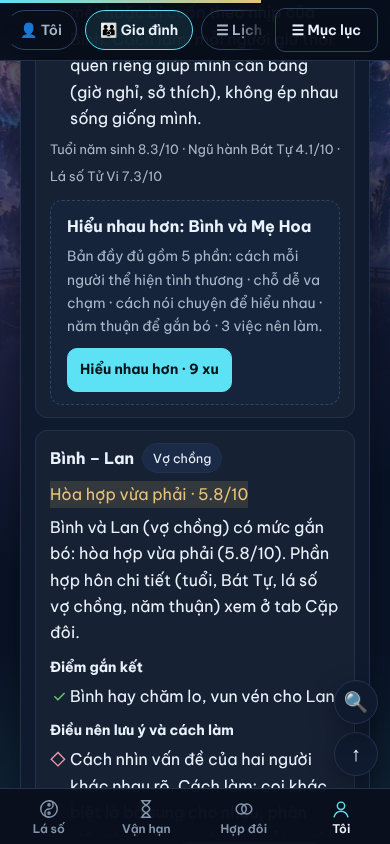
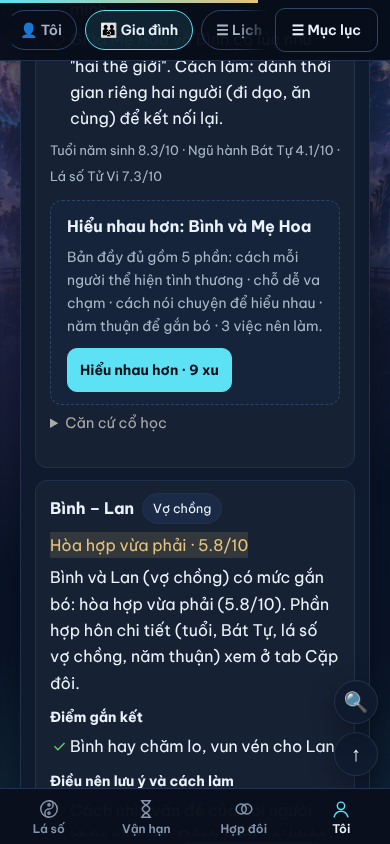
2026.11.17.3: chỉ đăng ký bằng email (bỏ số điện thoại); tab Gia đình giữ đầy đủ phần xem quan hệ cũ miễn phí, chỉ 5 mục Hiểu nhau hơn cần 9 xu
Claude-Session: https://claude.ai/code/session_01SyhBCpU6UBsLWWootv5ymo

diff --git a/tuvi-app/tests/thanh-toan.js b/tuvi-app/tests/thanh-toan.js
@@ -69,9 +69,9 @@ const chu = ctx.dangNhap('chienpham', PASS).token;
 // Phần đầu kiểm tra cơ chế với bảng giá cũ (ghim cố định) và tắt quà đăng ký; phần cuối kiểm tra bảng giá mặc định mới + quà
 const GIA_CU = { co_ban: 49, tron_goi: 149, cap_doi: 29, dai_van: 19, nam: 29, dong_hanh: 79, bien_co: 29, phoi_ngau: 19, pdf: 29, do_gio: 19, tron_dai_van: 99 };
 store.TT_BANG_GIA = JSON.stringify({ phien: ctx.TT_GIA_PHIEN, phan: GIA_CU, goi: [{ tien: 50000, xu: 50 }, { tien: 100000, xu: 110 }, { tien: 200000, xu: 240 }, { tien: 500000, xu: 650 }], thuongDangKy: 0, thuongGTDangKy: 0, kmPhien: ctx.TT_KM_PHIEN });
-ok(nem(() => ctx.dangKy('ab', 'matkhau123', 'A', '0912345678')) !== null, 'Đăng ký: chặn tên quá ngắn');
+ok(nem(() => ctx.dangKy('ab', 'matkhau123', 'A', 'ab@vidu.vn')) !== null, 'Đăng ký: chặn tên quá ngắn');
 ok(nem(() => ctx.dangKy('khachmoi', 'matkhau123', 'Khách', 'abc')) !== null, 'Đăng ký: bắt buộc SĐT/email hợp lệ');
-const dk = ctx.dangKy('khachmoi', 'matkhau123', 'Khách Mới', '0912 345 678');
+const dk = ctx.dangKy('khachmoi', 'matkhau123', 'Khách Mới', 'khachmoi@vidu.vn');
 ok(dk.token && dk.nguoiDung.vaiTro === 'thanhVien', 'Khách tự đăng ký và đăng nhập luôn');
 const T = dk.token;
 let r = ctx.lapLaSo(L, T);
@@ -206,9 +206,9 @@ ok(ctx.xacThucEmail(n1.token, ma1).chuaCo, 'Mã đã dùng không dùng lại đ
 tkSet('nguoimoi1', o => { o.otp = null; });
 ctx.guiMaEmail(n1.token, 'khac@x.vn'); { const v = ctx.xacThucEmail(n1.token, maCuoi()); ok(v.ok && v.qua.xu === 0 && v.qua.lyDo === 'taiKhoan' && ctx.ttSoDu_('nguoimoi1') === 39, 'Tài khoản đã nhận quà: xác thực email khác không nhận thêm'); }
 m = ctx.muaPhan(n1.token, Object.assign({}, L, { day: 11 }), 'thang', new Date().getFullYear() + '-12'); ok(m.ok && m.soDu === 39 - P_.thang.xu, 'Dùng quà mở ngay 1 tháng, không cần nạp');
-const n1b = ctx.dangKy('nguoimoi1b', 'matkhau123', 'Trùng Email', '0911000001', '');
+const n1b = ctx.dangKy('nguoimoi1b', 'matkhau123', 'Trùng Email', 'nguoimoi1b@vidu.vn', '');
 ctx.guiMaEmail(n1b.token, 'MOI1@x.vn '); { const v = ctx.xacThucEmail(n1b.token, maCuoi()); ok(v.ok && v.qua.xu === 0 && v.qua.lyDo === 'email' && ctx.ttSoDu_('nguoimoi1b') === 0, 'Quà mỗi email chỉ một lần (không phân biệt hoa thường) – tài khoản khác vẫn xác thực được'); }
-const n7 = ctx.dangKy('nguoimoi7', 'matkhau123', 'B7', '0911000007', ''), n7b = ctx.dangKy('nguoimoi7b', 'matkhau123', 'B7b', '0911000008', '');
+const n7 = ctx.dangKy('nguoimoi7', 'matkhau123', 'B7', 'nguoimoi7@vidu.vn', ''), n7b = ctx.dangKy('nguoimoi7b', 'matkhau123', 'B7b', 'nguoimoi7b@vidu.vn', '');
 ctx.guiMaEmail(n7.token, 'Ten.Mot+abc@GoogleMail.com'); const q7 = ctx.xacThucEmail(n7.token, maCuoi()).qua.xu;
 ctx.guiMaEmail(n7b.token, 'tenmot@gmail.com'); const q7b = ctx.xacThucEmail(n7b.token, maCuoi()).qua.xu;
 ok(q7 === 39 && q7b === 0, 'Quà: bí danh Gmail (dấu chấm, +đuôi, googlemail) tính là một email');
@@ -220,11 +220,11 @@ ok(ctx.ttLienHeChuan_('ab+x@yahoo.com') === 'ab@yahoo.com' && ctx.ttLienHeChuan_
   tkSet('otphethan', o => { o.otp = null; }); ctx.guiMaEmail(t, 'hh@x.vn');
   ok(ctx.xacThucEmail(t, maCuoi()).qua.xu === 39, 'Gửi lại mã mới sau khi hết hạn → xác thực được, nhận quà'); }
 { // sai 5 lần → mã khóa, kể cả nhập đúng sau đó
-  const t = ctx.dangKy('otpsai', 'matkhau123', 'S', '0911000009', '').token; ctx.guiMaEmail(t, 'sai@x.vn'); const ma = maCuoi(), sai = ma === '999999' ? '888888' : '999999';
+  const t = ctx.dangKy('otpsai', 'matkhau123', 'S', 'otpsai@vidu.vn', '').token; ctx.guiMaEmail(t, 'sai@x.vn'); const ma = maCuoi(), sai = ma === '999999' ? '888888' : '999999';
   let v; for (let i = 0; i < 5; i++) v = ctx.xacThucEmail(t, sai);
   ok(v.khoaMa && v.conLan === 0 && ctx.xacThucEmail(t, ma).khoaMa && ctx.ttSoDu_('otpsai') === 0, 'Sai 5 lần: mã bị khóa, nhập đúng cũng không nhận'); }
 { // tối đa 5 lần gửi mỗi ngày + hết quota MailApp
-  const t = ctx.dangKy('otpgioihan', 'matkhau123', 'G', '0911000010', '').token;
+  const t = ctx.dangKy('otpgioihan', 'matkhau123', 'G', 'otpgioihan@vidu.vn', '').token;
   tkSet('otpgioihan', o => { o.otpNgay = ctx.Utilities.formatDate(new Date(), 'Asia/Ho_Chi_Minh', 'yyyy-MM-dd'); o.otpDem = 5; });
   const n0 = thu.length, v = ctx.guiMaEmail(t, 'gh@x.vn'); ok(v.ok === false && v.hetLuot && thu.length === n0, 'Quá 5 lần gửi mã trong ngày: từ chối, không gửi');
   tkSet('otpgioihan', o => { o.otpDem = 0; });
@@ -233,12 +233,13 @@ ok(ctx.ttLienHeChuan_('ab+x@yahoo.com') === 'ab@yahoo.com' && ctx.ttLienHeChuan_
   quota = 100; tkSet('otpgioihan', o => { o.otp = null; }); guiLoi = true;
   ok(/Chưa gửi được email/.test(nem(() => ctx.guiMaEmail(t, 'gh@x.vn')) || '') && !tkJ('otpgioihan').otp, 'MailApp lỗi: báo lỗi rõ, không giữ mã treo'); guiLoi = false; }
 { // tài khoản cũ đã nhận quà kiểu cũ (sổ cái 'DK') → không nhận thêm 39 xu
-  const t = ctx.dangKy('tkcuqua', 'matkhau123', 'Cũ', '0911000011', '').token;
+  const t = ctx.dangKy('tkcuqua', 'matkhau123', 'Cũ', 'tkcuqua@vidu.vn', '').token;
   ctx.ttKhoa_(() => ctx.ttCong_('tkcuqua', 9, 'Quà chào mừng khi đăng ký', 'DK'));
   ctx.guiMaEmail(t, 'cu@x.vn'); const v = ctx.xacThucEmail(t, maCuoi());
   ok(v.ok && v.qua.xu === 0 && v.qua.lyDo === 'taiKhoan' && ctx.ttSoDu_('tkcuqua') === 9, 'Tài khoản đã nhận quà 9/50 xu kiểu cũ: xác thực email không nhận thêm'); }
-const n6 = ctx.dangKy('nguoimoi6', 'matkhau123', 'B6', '+84 98 765 4321', '');
-ok(n6.qua.xu === 0 && !n6.emailGoiY && ctx.ttSoDu_('nguoimoi6') === 0, 'Đăng ký bằng SĐT: không tặng (SĐT không xác minh được), vẫn mời xác thực email');
+const n6 = ctx.dangKy('nguoimoi6', 'matkhau123', 'B6', 'nguoimoi6@vidu.vn', '');
+ok(n6.qua.xu === 0 && n6.emailGoiY === 'nguoimoi6@vidu.vn' && n6.canXacThuc && ctx.ttSoDu_('nguoimoi6') === 0, 'Đăng ký: chưa tặng ngay, gợi ý đúng email để xác thực');
+ok(/email hợp lệ/.test(nem(() => ctx.dangKy('nguoisdt', 'matkhau123', 'SĐT', '0987654321', ''))), '17/11: chỉ đăng ký bằng email – số điện thoại bị từ chối');
 
 // --- Chủ đề năm (nam_cd) và bức tranh chung (nam) ---
 const vyN = new Date().getFullYear(), LN = Object.assign({}, L, { day: 13, viewYear: vyN });
@@ -303,7 +304,7 @@ ok(/Không có gói/.test(nem(() => ctx.muaPhan(t6, null, 'hoi_vien')) || '') &&
     { ten: 'Mẹ', quanHe: 'Mẹ', input: { name: 'Mẹ', gender: 'nu', calendar: 'duong', day: 2, month: 3, year: 1965, hour: 6, minute: 0 } },
     { ten: 'Vợ', quanHe: 'Vợ', input: { name: 'Vợ', gender: 'nu', calendar: 'duong', day: 3, month: 4, year: 1994, hour: 7, minute: 0 } }], t6).ds;
   let Q = ctx.giaDinhQuanHe([ds[0].id, ds[1].id], t6), c = Q.cap[0];
-  ok(!c.moQH && c.giaQH === 9 && c.luan.khoa && c.luan.muc.length === 5 && c.luan.muc.every(x => !x.ds) && c.tomTat.length === 1 && c.canCu.length === 0 && c.diem >= 0, 'Quan hệ chưa mua: chỉ điểm, xếp loại, 1 dòng tóm tắt + tên 5 mục');
+  ok(!c.moQH && c.giaQH === 9 && c.luan.khoa && c.luan.muc.length === 5 && c.luan.muc.every(x => !x.ds) && c.tomTat.length >= 1 && c.diem >= 0, 'Quan hệ chưa mua: phần xem cũ giữ đầy đủ (miễn phí), 5 mục "Hiểu nhau hơn" chỉ còn tên');
   const d0 = ctx.ttSoDu_('nguoimoi6'); m = ctx.muaPhan(t6, { ids: [ds[0].id, ds[1].id] }, 'quan_he');
   ok(m.ok && m.gia === 9 && ctx.ttSoDu_('nguoimoi6') === d0 - 9, 'Mua quan hệ Tôi – Mẹ: 9 xu');
   ok(ctx.muaPhan(t6, { a: ds[1].input, b: ds[0].input }, 'quan_he').daCo, 'Khóa cặp không phụ thuộc thứ tự (nhập a/b đảo vẫn là đã có)');

diff --git a/tuvi-app/tests/gia-dinh.js b/tuvi-app/tests/gia-dinh.js
@@ -9,7 +9,7 @@ let ok = 0, sai = 0;
 function kt(dk, msg) { if (dk) ok++; else { sai++; console.log('✗', msg); } }
 const tokChu = 'gia-dinh-kiem-thu-token-chu-01';
 ctx.CacheService.getScriptCache().put('SS_' + tokChu, JSON.stringify({ ten: 'chienpham' }));
-const dk = ctx.dangKy('giadinhthu', 'matkhau123', 'Thử', '0912000999', ''), tokTV = dk.token;
+const dk = ctx.dangKy('giadinhthu', 'matkhau123', 'Thử', 'giadinhthu@vidu.vn', ''), tokTV = dk.token;
 let bi = false; try { ctx.giaDinhDs('khong-hop-le'); } catch (e) { bi = true; }
 kt(bi, 'chưa đăng nhập bị chặn');
 // Chủ sở hữu: danh sách mặc định
@@ -74,7 +74,7 @@ for (let i = 0; i < 25; i++) {   // ngẫu nhiên: không lỗi, điểm trong 0
   const qh = ['Bản thân', 'Vợ', 'Con trai', 'Con gái', 'Cha', 'Mẹ', 'Anh', 'Em gái', 'Ông', 'Bà', 'Họ hàng'];
   const dsN = [0, 1, 2, 3].map(k => ({ ten: 'N' + i + k, quanHe: qh[(i * 5 + k * 7) % qh.length], input: { gender: (i + k) % 2 ? 'nu' : 'nam', calendar: 'duong', day: 1 + (i * 7 + k * 3) % 28, month: 1 + (i + k * 5) % 12, year: 1940 + (i * 13 + k * 17) % 80, hour: (i * 5 + k) % 24, minute: 0 } }));
   const sach = ctx.giaDinhLuu(dsN, tokTV).ds, R = ctx.giaDinhQuanHe(sach.map(x => x.id), tokTV);
-  kt(R.cap.length === 6 && R.cap.every(c => c.diem >= 0 && c.diem <= 10 && c.tomTat.length && (c.capDoi || (!c.moQH && c.luan.khoa && c.tomTat.length === 1))) && R.nhom, '#' + i + ' 4 người ngẫu nhiên luận được (thành viên: bản xem thử quan hệ)');
+  kt(R.cap.length === 6 && R.cap.every(c => c.diem >= 0 && c.diem <= 10 && c.tomTat.length && (c.capDoi || (!c.moQH && c.luan.khoa && c.luan.muc.every(m => !m.ds)))) && R.nhom, '#' + i + ' 4 người ngẫu nhiên luận được (thành viên: bản xem thử quan hệ)');
 }
 console.log('Gia đình: đạt ' + ok + '/' + (ok + sai));
 process.exit(sai ? 1 : 0);

diff --git a/tuvi-app/Index.html b/tuvi-app/Index.html
@@ -3,7 +3,7 @@
 <head>
   <base target="_top">
   <meta charset="utf-8">
-  <meta name="tcc-ban" content="2026.11.17.2">
+  <meta name="tcc-ban" content="2026.11.17.3">
   <meta name="viewport" content="width=device-width, initial-scale=1">
   <title>Thiên Cơ Các · Lá Số Tử Vi & Bát Tự</title>
   <link rel="preconnect" href="https://fonts.googleapis.com">
@@ -400,7 +400,7 @@
           <div class="field"><label for="rgUser">Tên đăng nhập</label><input type="text" id="rgUser" autocomplete="username" autocapitalize="none" spellcheck="false" placeholder="vd: an.nguyen" required></div>
           <div class="field"><label for="rgName">Tên hiển thị</label><input type="text" id="rgName" maxlength="60" placeholder="vd: Nguyễn An"></div>
         </div>
-        <div class="field"><label for="rgContact">Số điện thoại hoặc email (để khôi phục tài khoản)</label><input type="text" id="rgContact" autocomplete="tel" required></div>
+        <div class="field"><label for="rgContact">Email (nhận mã xác thực – quà 39 xu)</label><input type="email" id="rgContact" autocomplete="email" inputmode="email" placeholder="ten@gmail.com" required></div>
         <div class="row c2">
           <div class="field"><label for="rgPass">Mật khẩu (≥ 8 ký tự, có chữ và số)</label><input type="password" id="rgPass" autocomplete="new-password" required></div>
           <div class="field"><label for="rgPass2">Nhập lại mật khẩu</label><input type="password" id="rgPass2" autocomplete="new-password" required></div>

diff --git a/tuvi-app/tests/tien-ich.js b/tuvi-app/tests/tien-ich.js
@@ -18,7 +18,7 @@ const inp = { name: 'Nguyễn Văn An', gender: 'nam', calendar: 'duong', day: 1
 let r = ctx.tienIch(inp, 'xem_tuoi', { muon: 1965 }, ''); kt(r.mo && r.bang.length === 10 && r.muon, 'xem tuổi miễn phí (23/10): đủ 10 năm + tuổi mượn, không cần đăng nhập');
 r = ctx.tienIch(inp, 'phong_thuy', {}, ''); kt(r.mo && r.huong && r.cungPhi === 'Khảm', 'phong thủy miễn phí: đủ 8 hướng');
 r = ctx.tienIch(inp, 'chon_ngay', { viec: 'cuoi', thang: '2026-11' }, ''); kt(r.mo && r.ngay.length === 30, 'chọn ngày miễn phí: đủ 30 ngày');
-const dk = ctx.dangKy('khachti', 'matkhau123', 'Khách TI', '0912000111', ''); const tok = dk.token;
+const dk = ctx.dangKy('khachti', 'matkhau123', 'Khách TI', 'khachti@vidu.vn', ''); const tok = dk.token;
 const G = k => ctx.TT_PHAN_MAC_DINH[k].xu, qua0 = ctx.ttSoDu_('khachti');
 ctx.ttKhoa_(() => ctx.ttCong_('khachti', 300, 'test', ''));
 kt(['xem_tuoi', 'phong_thuy', 'chon_ngay', 'hop_tac', 'dat_ten', 'gieo_que'].every(k => ctx.ttBangGia_().phan[k].xu === 0 && ctx.ttBangGia_().phan[k].mienPhi), 'bảng giá: 6 tiện ích = 0 xu');

diff --git a/tuvi-app/tests/bao-mat.js b/tuvi-app/tests/bao-mat.js
@@ -90,7 +90,7 @@ kt(cfg.webapp && cfg.webapp.executeAs === 'USER_DEPLOYING', 'appsscript.json: we
   const inp = { name: 'An', gender: 'nam', calendar: 'duong', day: 5, month: 6, year: 1990, hour: 8, minute: 0, place: '21.03|105.85|Hà Nội', tz: '7' };
   let loi = ''; try { ctx.getDoanNghiemChung(inp, ''); } catch (e) { loi = e.message; }
   kt(/tài khoản|đăng nhập/.test(loi), 'nghiệm chứng: khách chưa đăng nhập bị chặn');
-  const t = ctx.dangKy('kiemnc', 'matkhau123', 'NC', '0911222333', '').token;
+  const t = ctx.dangKy('kiemnc', 'matkhau123', 'NC', 'kiemnc@vidu.vn', '').token;
   const d = ctx.getDoanNghiemChung(inp, t); kt(Array.isArray(d) && d.length >= 6, 'nghiệm chứng: tài khoản nhận đủ các nhóm (' + d.length + ')');
   ctx.CacheService.getScriptCache().put('NCG_kiemnc', '20', 600);
   loi = ''; try { ctx.getDoanNghiemChung(inp, t); } catch (e) { loi = e.message; }

diff --git a/tuvi-app/tests/giai-doan.js b/tuvi-app/tests/giai-doan.js
@@ -1,7 +1,7 @@
 /** Kiểm thử bán theo giai đoạn: đại vận / vận năm / tháng / Đồng hành / Trọn đời / gói gia đình và phần cắt ở máy chủ. Chạy: node tests/giai-doan.js */
 const { ctx } = require('../tools/gia-lap.js');
 let ok = 0, sai = 0; function kt(dk, ten) { if (dk) ok++; else { sai++; console.log('  ✘', ten); } }
-const dk = ctx.dangKy('khachgd', 'matkhau123', 'Khách GĐ', '0912345678', '');
+const dk = ctx.dangKy('khachgd', 'matkhau123', 'Khách GĐ', 'khachgd@vidu.vn', '');
 const tok = dk.token; kt(tok, 'đăng ký có token');
 const G = k => ctx.TT_PHAN_MAC_DINH[k].xu, qua0 = ctx.ttSoDu_('khachgd');
 ctx.ttKhoa_(() => ctx.ttCong_('khachgd', 1000, 'test', ''));

diff --git a/tuvi-app/tests/van-ngay.js b/tuvi-app/tests/van-ngay.js
@@ -39,7 +39,7 @@ let ngayXung = 0, ngay = 0;
 });
 kt(ngayXung > 10, 'có gặp ngày xung tuổi trong mẫu (' + ngayXung + '/' + ngay + ')');
 // Quyền: tài khoản thường không đăng ký được
-const dk = ctx.dangKy('khachvn', 'matkhau123', 'Khách VN', '0912000222', '');
+const dk = ctx.dangKy('khachvn', 'matkhau123', 'Khách VN', 'khachvn@vidu.vn', '');
 // 23/10: tài khoản thường mua theo 30 ngày (giá 'van_ngay'), hết xu thì báo thiếu
 const giaVN = ctx.ttBangGia_().phan.van_ngay.xu;
 kt(giaVN === 19 && dk.qua.xu === 0 && ctx.ttSoDu_('khachvn') === 0, '16/11: lời nhắn mỗi sáng 19 xu / 30 ngày; đăng ký chưa có quà (quà sau khi xác thực email)');

diff --git a/tuvi-app/Script.html b/tuvi-app/Script.html
@@ -27,7 +27,7 @@
     });
   }
   /** Mã phiên bản giao diện – phải trùng với Index.html (meta tcc-ban) và Styles.html (--tcc-ban) */
-  var BAN_GIAO_DIEN = '2026.11.17.2';
+  var BAN_GIAO_DIEN = '2026.11.17.3';
   /* 25/10: ảnh ngũ hành + 12 con giáp + bìa PDF mới của chủ dự án (tuvi-app/anh/*.webp) qua jsDelivr, ghim theo mã lần lưu */
   var TCC_ANH_CDN = 'https://cdn.jsdelivr.net/gh/phamdoanchiengroup-cloud/githubforclaude160695@19203fbd20433f395336269a411f8aebcf990086/tuvi-app/anh/';
   var ANH_HANH = { 'Mộc': 'NguHanhMoc', 'Hỏa': 'NguHanhHoa', 'Thổ': 'NguHanhTho', 'Kim': 'NguHanhKim', 'Thủy': 'NguHanhThuy' };

diff --git a/tuvi-app/Styles.html b/tuvi-app/Styles.html
@@ -1,6 +1,6 @@
 <style>
 /* Mã phiên bản giao diện – phải trùng với Index.html (meta tcc-ban) và Script.html (BAN_GIAO_DIEN) */
-:root { --tcc-ban: "2026.11.17.2"; }
+:root { --tcc-ban: "2026.11.17.3"; }
 /* ================================================================
    THIÊN CƠ CÁC — phong cách tiên hiệp sáng: ngọc bích, kim sa, mây trắng
    ================================================================ */
